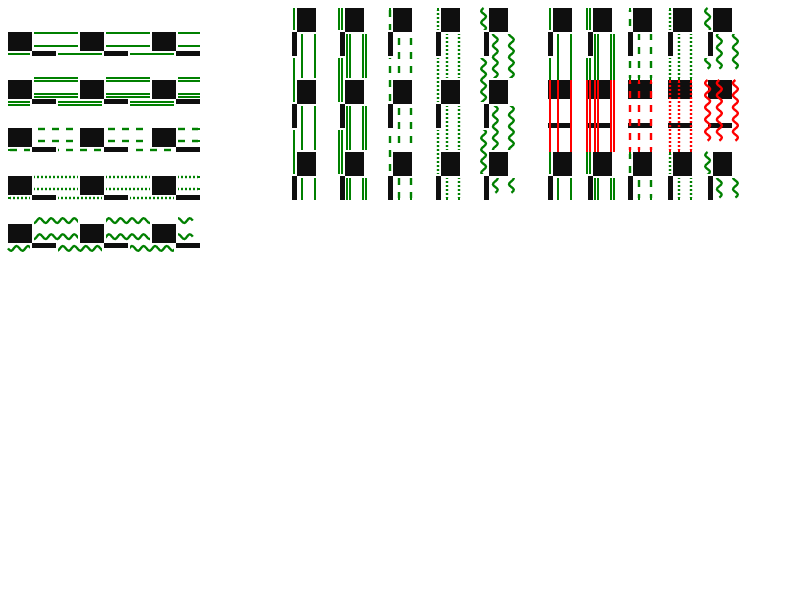
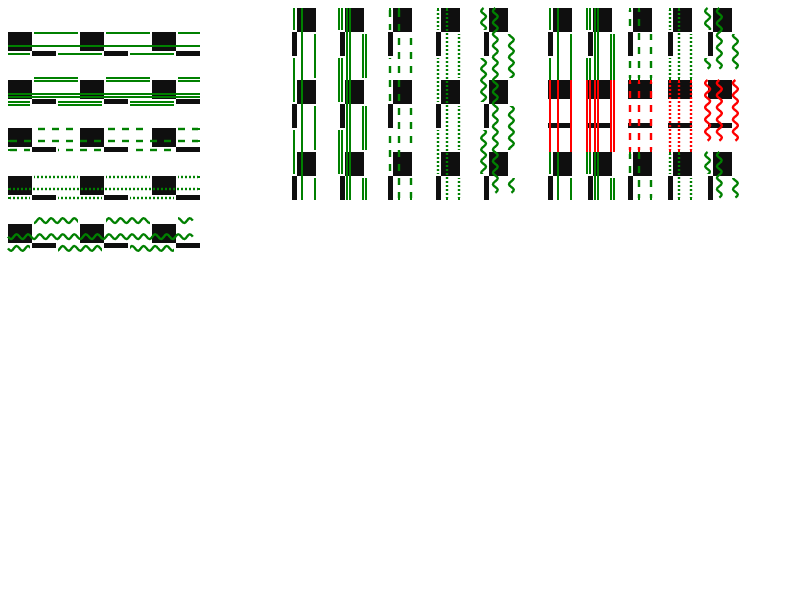
Do not apply ink-skipping to line-through text decoration
Discussion resolved in WG issue tracker:
https://github.com/w3c/csswg-drafts/issues/711

BUG=670599
R=kojii
CQ_INCLUDE_TRYBOTS=master.tryserver.chromium.linux:linux_layout_tests_slimming_paint_v2

Review-Url: https://codereview.chromium.org/2600453003
Cr-Original-Commit-Position: refs/heads/master@{#444343}
Cr-Mirrored-From: https://chromium.googlesource.com/chromium/src
Cr-Mirrored-Commit: 9a91abd16665860a7ab53a307b8e87c5783fbc6c

diff --git a/WebKit/Source/core/paint/InlineTextBoxPainter.cpp b/WebKit/Source/core/paint/InlineTextBoxPainter.cpp
@@ -1134,13 +1134,8 @@ void InlineTextBoxPainter::paintDecorations(
           context, FloatPoint(localOrigin) + FloatPoint(0, lineThroughOffset),
           width.toFloat(), decoration, textDecorationThickness, doubleOffset, 0,
           antialiasDecoration);
-      if (skipIntercepts) {
-        textPainter.clipDecorationsStripe(
-            -baseline + decorationPainter.decorationBounds().y() -
-                FloatPoint(localOrigin).y(),
-            decorationPainter.decorationBounds().height(),
-            textDecorationThickness);
-      }
+      // No skip: ink for line-through,
+      // compare https://github.com/w3c/csswg-drafts/issues/711
       decorationPainter.paint();
     }
   }
